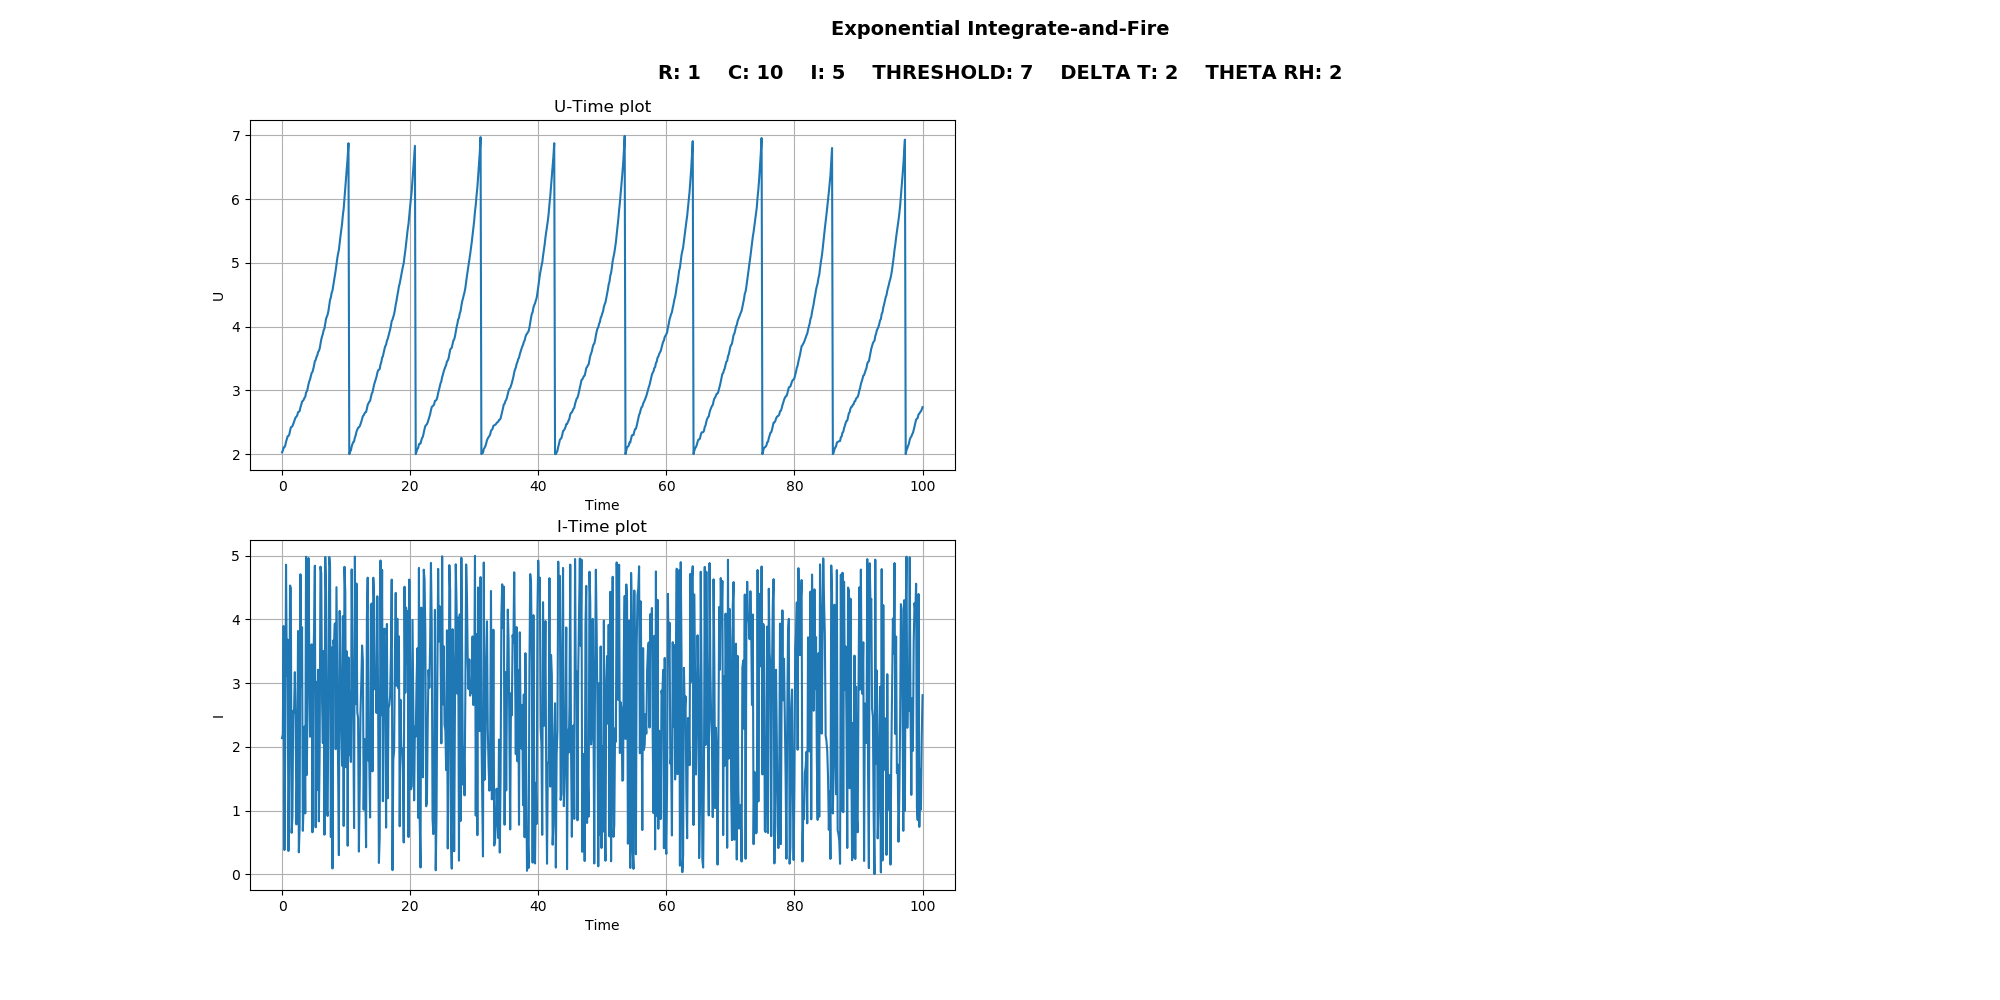
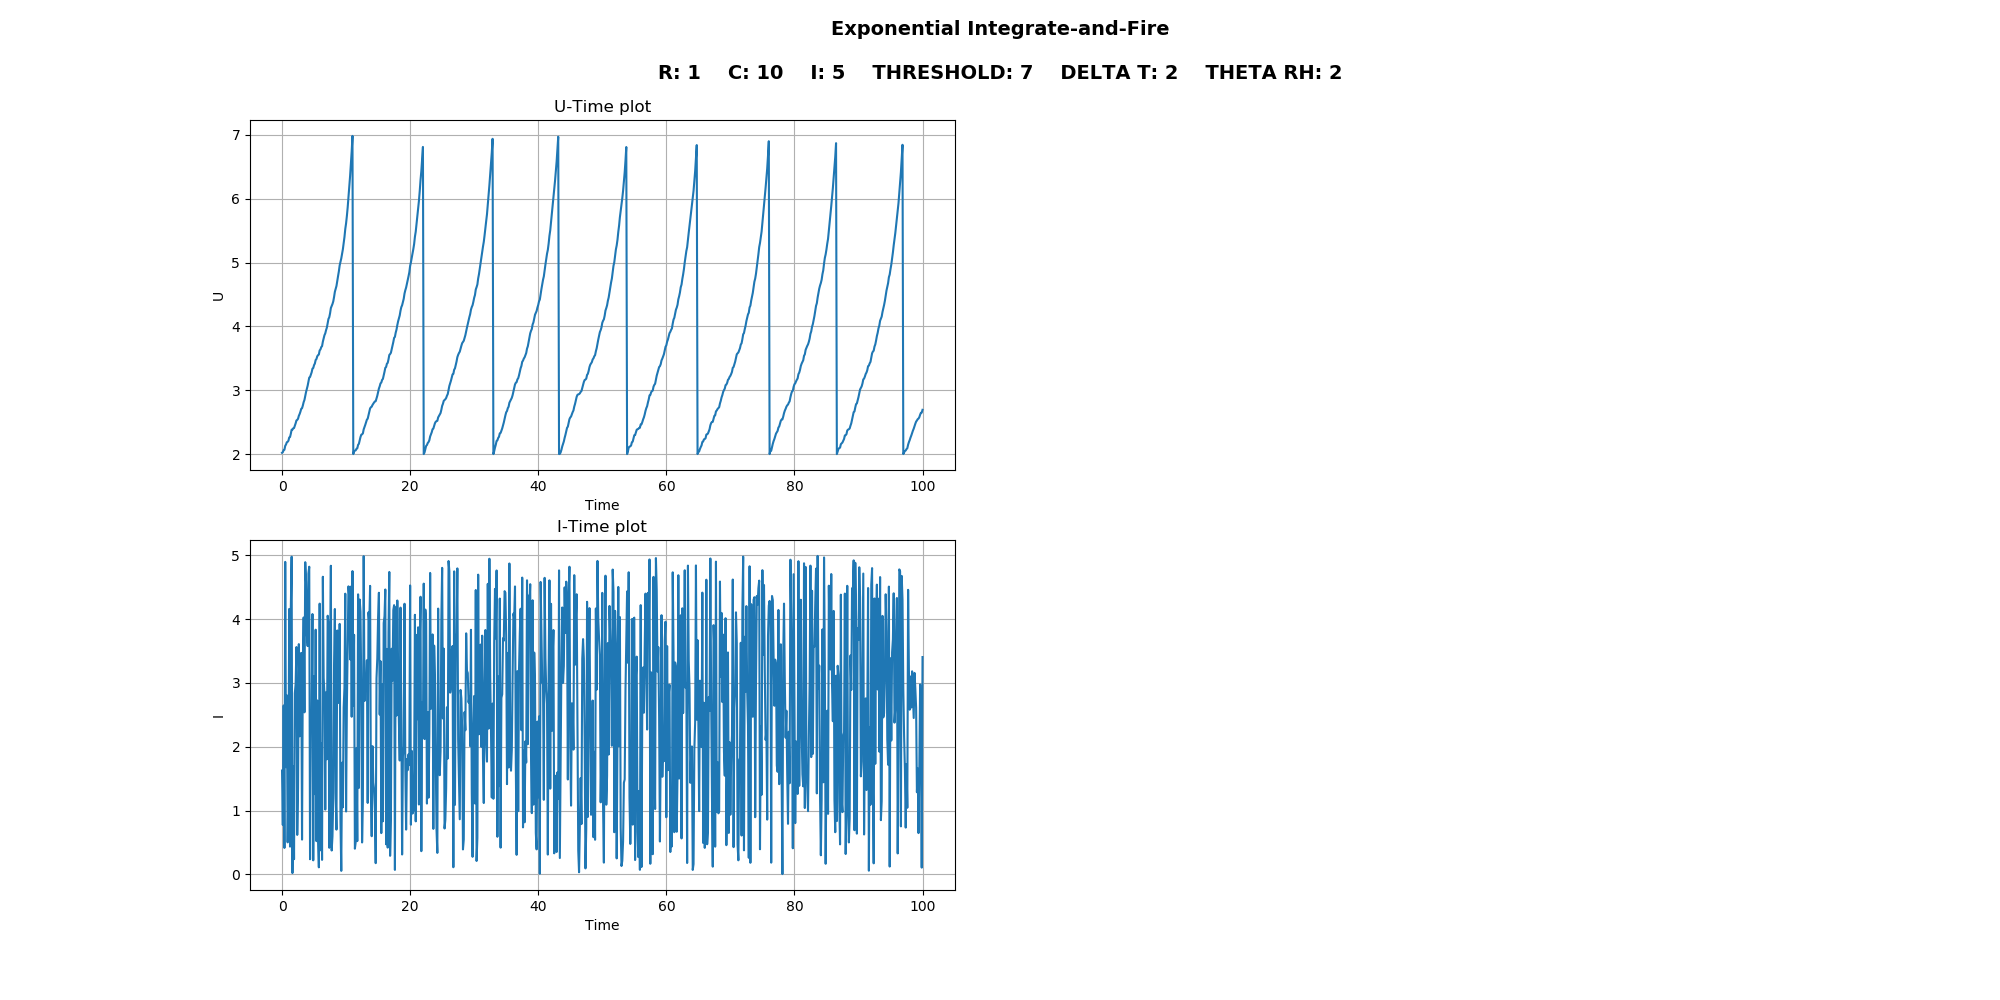
adex dev

Changed region(s): [[0.124, 0.558, 0.465, 0.868], [0.155, 0.155, 0.465, 0.465]]

diff --git a/Adaptive Exponential Leaky Integrate-and-Fire.py b/Adaptive Exponential Leaky Integrate-and-Fire.py
@@ -1,0 +1,98 @@
+import numpy as np
+from matplotlib.pyplot import *
+import random
+import math
+
+
+def i_interval(x, i):
+    if 20 < x < 70:
+        return i
+    return 0
+
+
+def i_random(x, i):
+    return random.random() * i
+
+
+def AdEx(time=100, steps=0.125, i_function=i_interval, u_rest=0, r=1, c=10, i=5, threshold=3, delta_t=2, theta_rh=2, a=2, b=2, tw=5,
+         f_i_plot=False,
+         save_name="none",
+         draw_plot=True):
+    timer = np.arange(0, time + steps, steps)
+    tm = r * c
+    u = [u_rest] * len(timer)
+    w = [0] * len(timer)
+    dt = steps
+    i_input = [i_function(j, i) for j in timer]
+    zigma_delta_funciton = 0
+
+    spike_t = time
+    current_spike_time = 0
+
+    # AdEx LIF Model -> NEURONAL DYNAMICS [Wulfram_Gerstner,_Werner_M_Kistle] page 137
+    for j in range(len(timer)):
+        u[j] = u[j - 1] + (-u[j - 1] + r * i_input[j] + delta_t * math.exp((u[j - 1] - theta_rh) / delta_t) - r * w[j - 1]) / tm * dt
+        w[j] = w[j - 1] + (a * u[j - 1] - w[j - 1] + b * tw * zigma_delta_funciton) / tw * dt
+        if u[j] >= threshold or u[j] < u_rest:
+            u[j] = u_rest
+            zigma_delta_funciton += 1
+            prev_spike_time = current_spike_time
+            current_spike_time = timer[j]
+            spike_t = min(spike_t, current_spike_time - prev_spike_time)
+
+    # plotting
+    if draw_plot:
+        fig = figure(num=None, figsize=(20, 10))
+        fig.suptitle('Exponential Integrate-and-Fire\n\n' + "R: " + str(r) + "    C: " + str(c) + "    I: " + str(i)
+                     + "    THRESHOLD: " + str(threshold) + "    DELTA T: " + str(delta_t)
+                     + "    THETA RH: " + str(theta_rh) + "    a: " + str(a) + "    b: " + str(b) + "    Tw: " + str(tw),
+                     fontsize=14, fontweight='bold')
+        subplot(221)
+        plot(timer, u)
+        ylabel('U')
+        xlabel('Time')
+        title('U-Time plot')
+        grid(True)
+
+        subplot(223)
+        plot(timer, i_input)
+        ylabel('I')
+        xlabel('Time')
+        title('I-Time plot')
+        grid(True)
+
+        if f_i_plot:
+            i_x = np.arange(0, 5, 0.125)
+            i_y = [0] * len(i_x)
+            for j in range(len(i_x)):
+                try:
+                    i_y[j] = 1 / AdEx(time=time, steps=steps, i_function=i_function, u_rest=u_rest, r=r, c=c, i=i_x[j], a=a, b=b, tw=tw,
+                                      threshold=threshold, delta_t=delta_t, theta_rh=theta_rh, f_i_plot=False,
+                                      save_name="none",
+                                      draw_plot=False)
+                except:
+                    i_y[j] = 0
+            subplot(222)
+            plot(i_x, i_y)
+            ylabel('F')
+            xlabel('I')
+            title('F-I plot')
+            grid(True)
+        if save_name != 'none':
+            savefig('figures/{}.png'.format(save_name))
+        show()
+
+    return spike_t
+
+
+AdEx(a=1 , b=1 , tw=4, f_i_plot=True, save_name="AdEx1")
+AdEx(a=1 , b=4 , tw=4, f_i_plot=True, save_name="AdEx2")
+AdEx(a=5 , b=4 , tw=4, f_i_plot=True, save_name="AdEx3")
+AdEx(threshold=5, theta_rh=4, a=1, b=1, tw=4, f_i_plot=True, save_name="AdEx4")
+AdEx(threshold=5, theta_rh=4, i=10, a=1, b=1, tw=1, f_i_plot=True, save_name="AdEx5")
+
+AdEx(a=1 , b=1 , tw=4, i_function=i_random, save_name="AdEx_random1")
+AdEx(a=1 , b=4 , tw=4, i_function=i_random, save_name="AdEx_random2")
+AdEx(a=5 , b=4 , tw=4, i_function=i_random, save_name="AdEx_random3")
+AdEx(threshold=5, theta_rh=4, a=1, b=1, tw=4, i_function=i_random, save_name="AdEx_random4")
+AdEx(threshold=5, theta_rh=4, i=10, a=1, b=1, tw=1, i_function=i_random, save_name="AdEx_random5")
